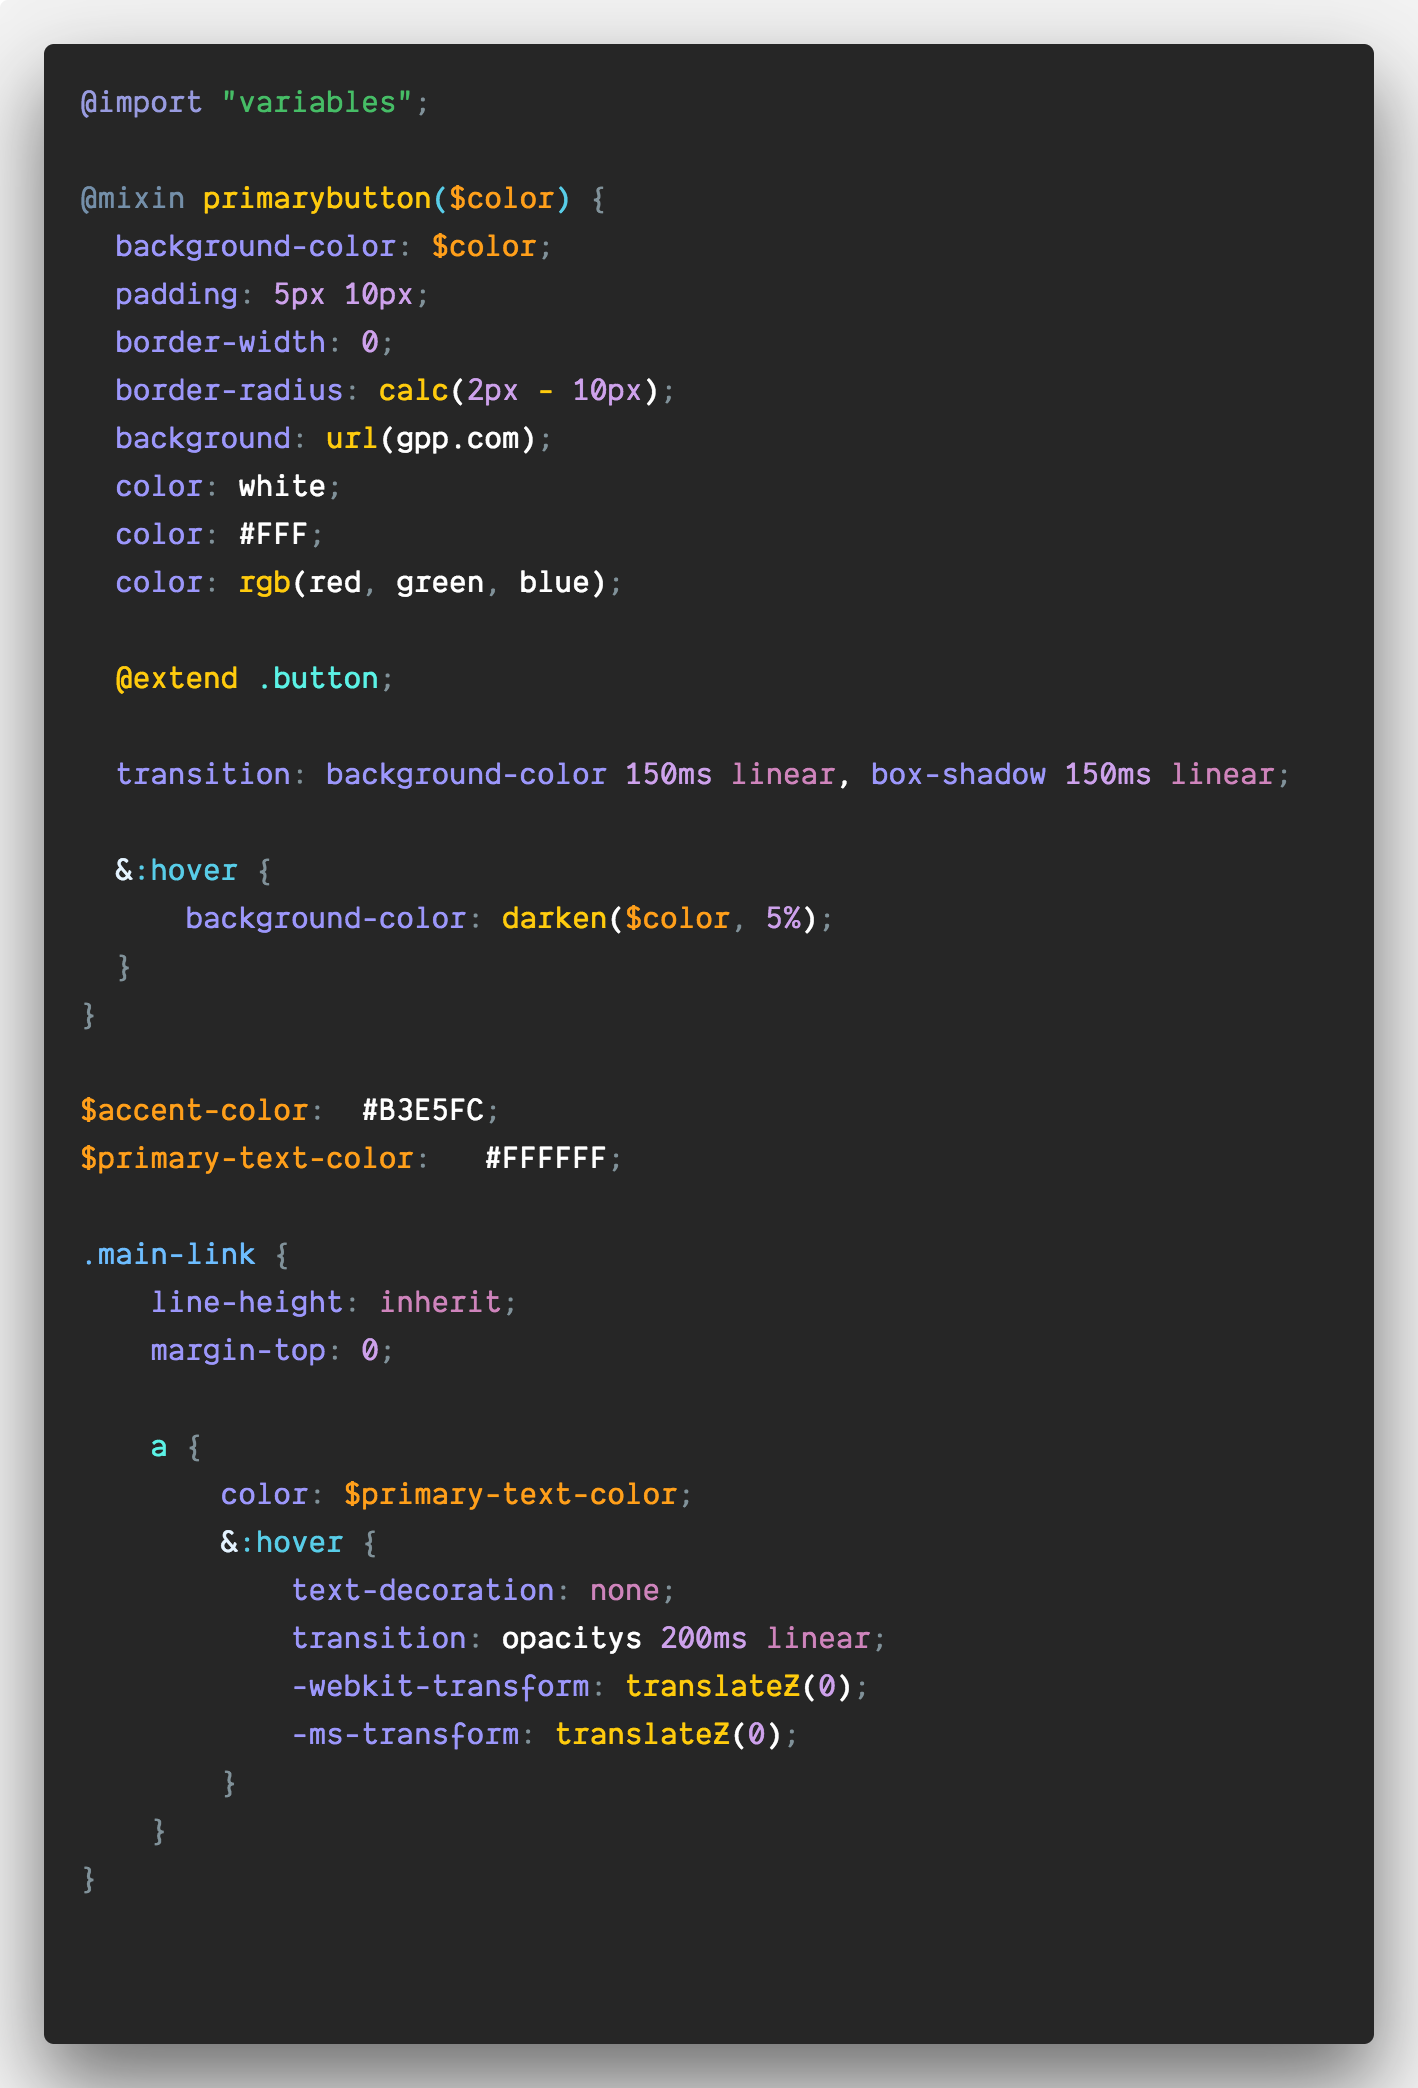
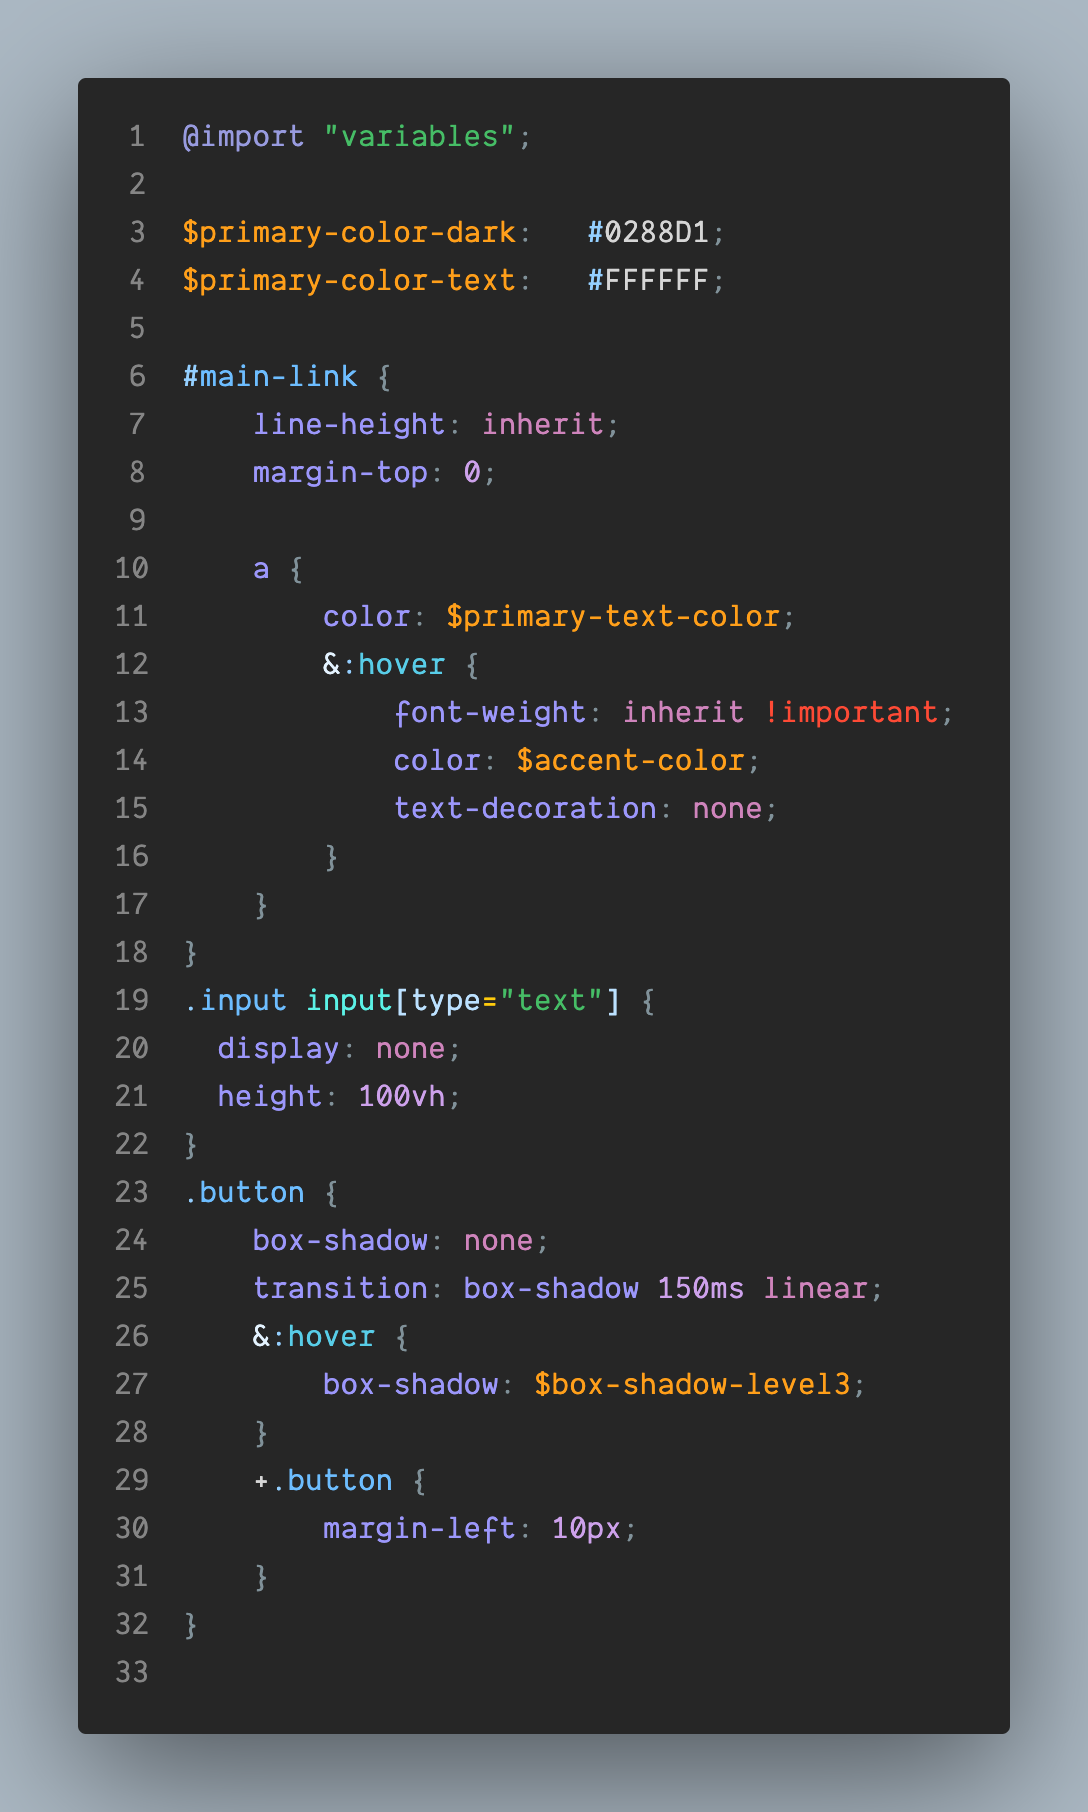
updated screenshots

diff --git a/demo/screenshottable/sass.scss b/demo/screenshottable/sass.scss
@@ -1,0 +1,32 @@
+@import "variables";
+
+$primary-color-dark:   #0288D1;
+$primary-color-text:   #FFFFFF;
+
+#main-link {
+    line-height: inherit;
+    margin-top: 0;
+
+    a {
+        color: $primary-text-color;
+        &:hover {
+            font-weight: inherit !important;
+            color: $accent-color;
+            text-decoration: none;
+        }
+    }
+}
+.input input[type="text"] {
+  display: none;
+  height: 100vh;
+}
+.button {
+    box-shadow: none;
+    transition: box-shadow 150ms linear;
+    &:hover {
+        box-shadow: $box-shadow-level3;
+    }
+    +.button {
+        margin-left: 10px;
+    }
+}

diff --git a/demo/screenshottable/css.css b/demo/screenshottable/css.css
@@ -1,7 +1,3 @@
-element {
-  --main-bg-color: brown;
-}
-
 body {
   font-size: var(--font_size_base);
   line-height: calc(100% - 100);
@@ -9,7 +5,6 @@ body {
 
 .navigation .messages-menu {
   width: 300px;
-  padding: 10%;
   padding-top: 25px;
 }
 

diff --git a/demo/screenshottable/php.php b/demo/screenshottable/php.php
@@ -1,5 +1,4 @@
 <?php
-
 class LoginLinkController extends Controller
 {
   private function actionAndRedirect(String $result, User $user, array $queryParams)
@@ -23,7 +22,6 @@ class LoginLinkController extends Controller
                 $defaultRedirectUrl = $dbFilename ? '/file/' . $dbFilename . QueryParamUtility::getQueryParamsURL($request, $excludedQueryParams) : $defaultRedirectUrl;
                 break;
         }
-
         return $returnResponse;
     }
 }
